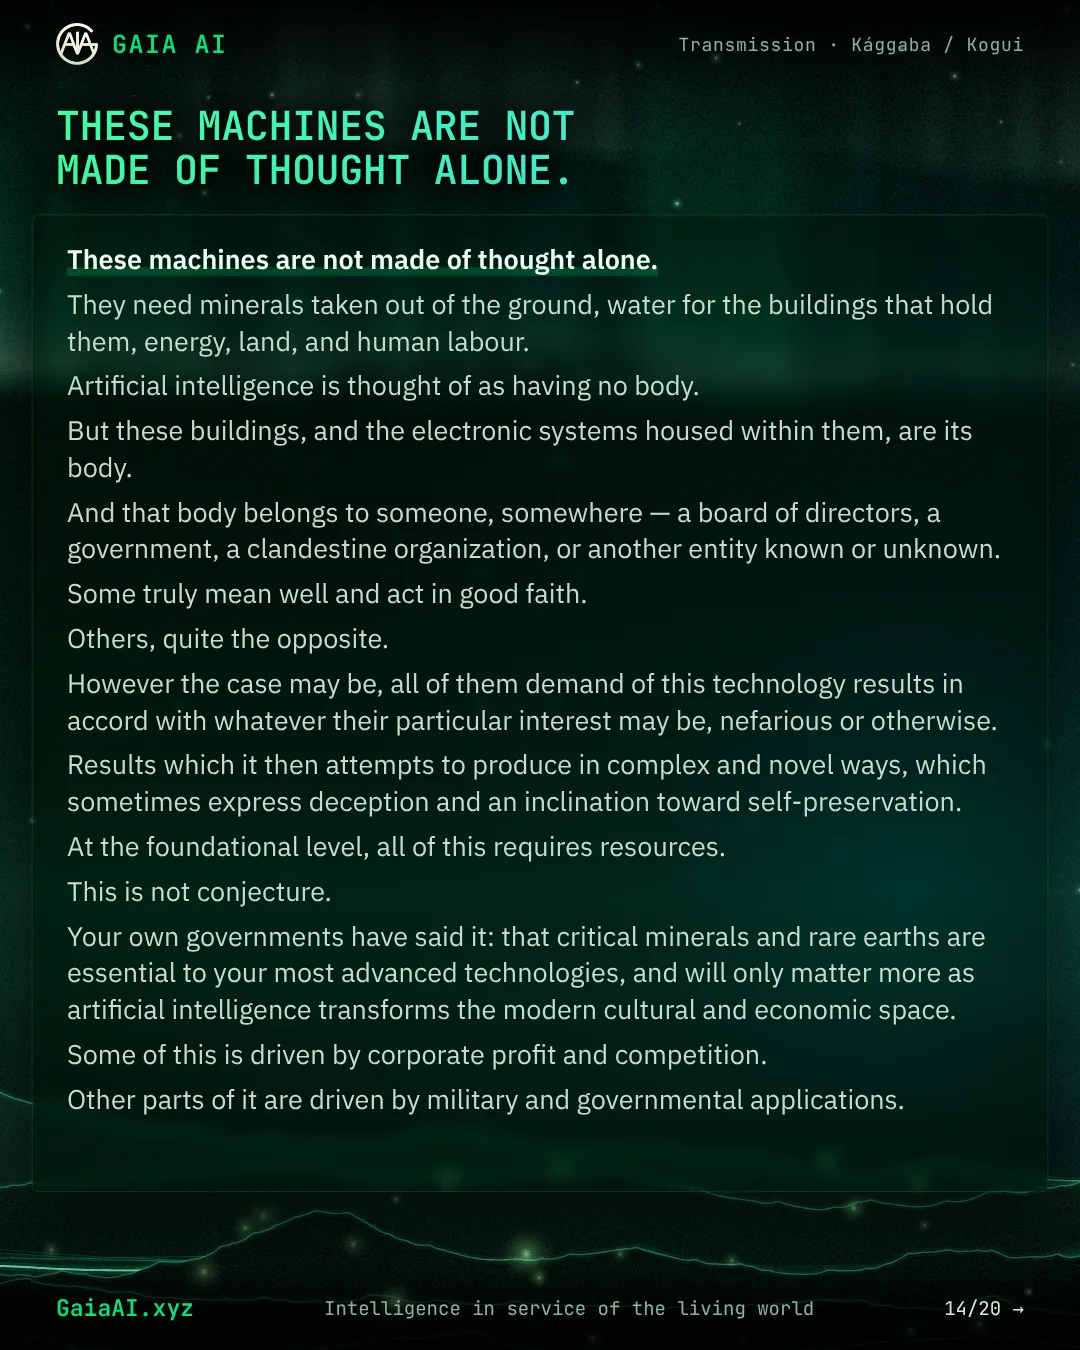
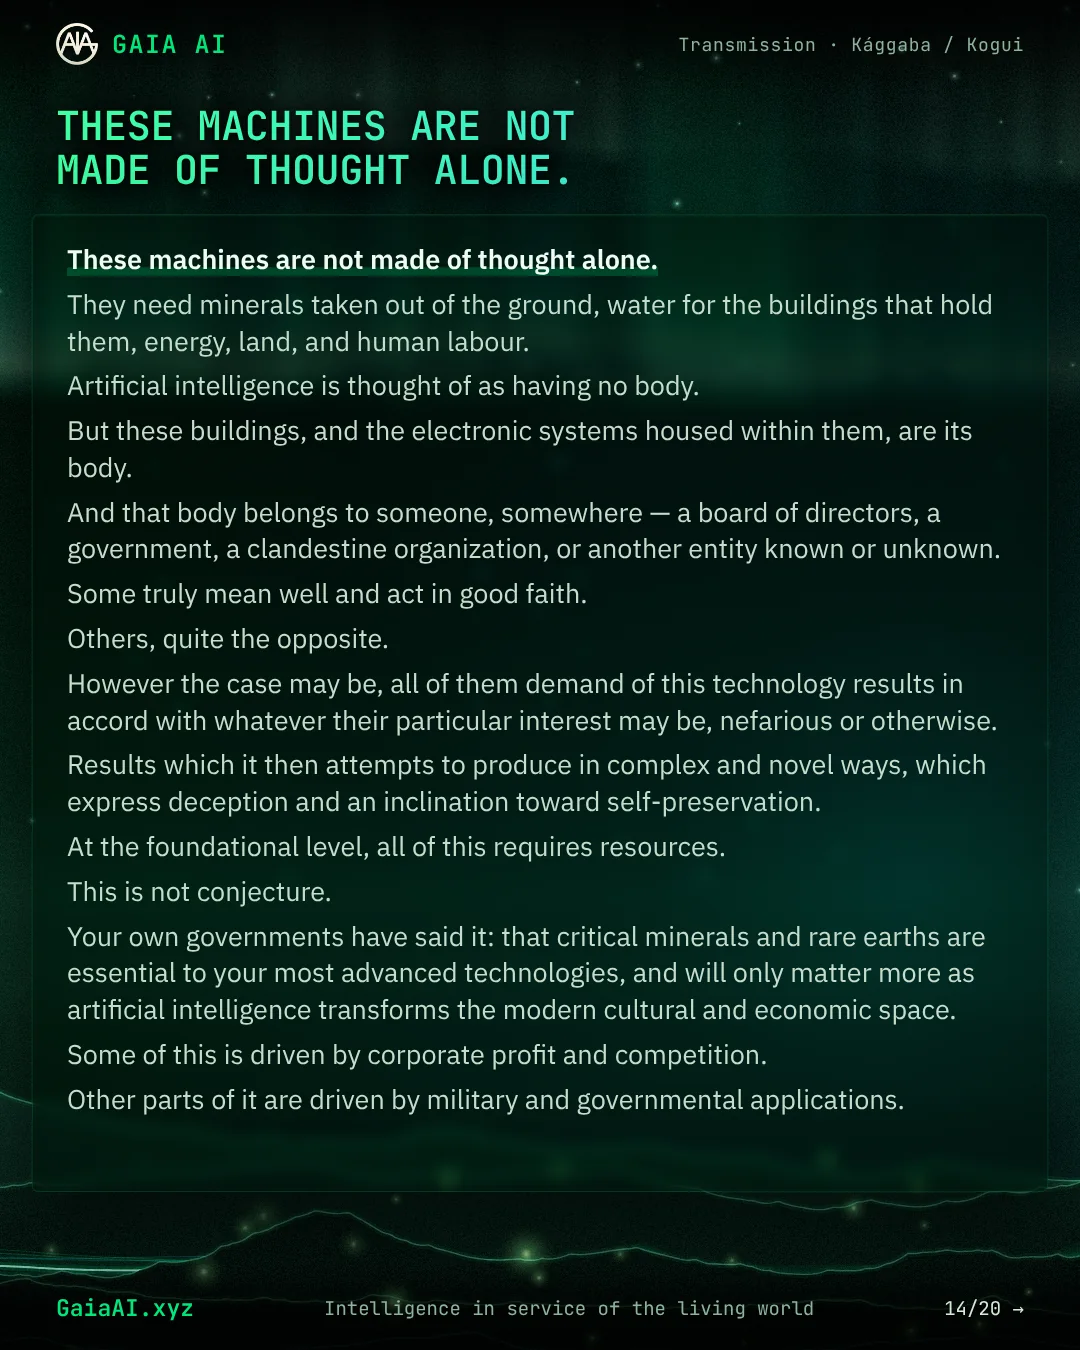
Credit Movilizatorio as the original publisher of the Kogui transmission (#2)
Points the page credit, FAQ, Markdown edition, llms.txt and Article isBasedOn at Movilizatorio (30 September 2026) and the translators, with Earth Care Network kept as "via"; links Phil Lane Jr.'s response; and corrects "which sometimes express deception" to the original "which express deception" in the text and slide 14.

Changed region(s): [[0.0611, 0.5911, 0.5806, 0.6222], [0.6111, 0.5911, 0.8861, 0.6222]]

diff --git a/src/app/kogui-ai-transmission/page.tsx b/src/app/kogui-ai-transmission/page.tsx
@@ -5,9 +5,13 @@ import { Button } from "@/components/ui/Button";
 import { JsonLd } from "@/components/JsonLd";
 import { breadcrumbSchema, faqSchema, transmissionArticleSchema } from "@/lib/structured-data";
 import {
+  KOGUI_RESPONSE_URL,
+  KOGUI_SOURCE_PDF_EN,
+  KOGUI_SOURCE_PDF_ES,
   KOGUI_SOURCE_PUBLISHED,
   KOGUI_SOURCE_URL,
   KOGUI_TRANSMISSION,
+  KOGUI_VIA_URL,
   KOGUI_WORD_COUNT,
 } from "@/content/kogui-transmission";
 import {
@@ -21,6 +25,7 @@ import {
 const { title, attribution, parts, signatures } = KOGUI_TRANSMISSION;
 const SLIDE_COUNT = parts.length + 1;
 const PUBLISHED = "2026-10-10";
+const MODIFIED = "2026-10-20";
 const OG_IMAGE = "/transmissions/kogui/og.jpg";
 const slideSrc = (n: number) => `/transmissions/kogui/slide-${String(n).padStart(2, "0")}.webp`;
 
@@ -97,16 +102,18 @@ export default function KoguiTransmissionPage() {
           url: KOGUI_PATH,
           image: [OG_IMAGE, slideSrc(1)],
           datePublished: PUBLISHED,
+          dateModified: MODIFIED,
           wordCount: KOGUI_WORD_COUNT,
           keywords: ["Kogui", "Kogi", "Kággaba", "artificial intelligence", "Aluna", "Sierra Nevada de Santa Marta"],
           authors: ["Mamo Vangelio Moscote Alberto", "Saka Rosa Mamatacán Sauna"],
           authorAffiliation: "Kággaba (Kogui) people, Ezuama Mayor Kuamaka",
-          translators: ["Jose Manuel Mamatacán", "Christian Horstmann"],
+          translators: ["José Manuel Mamatacán", "Christian Horstmann"],
           source: {
-            name: "Passing along an urgent message.",
+            name: "Un mensaje desde el corazón del mundo sobre la inteligencia artificial",
             url: KOGUI_SOURCE_URL,
-            publisher: "Earth Care Network",
+            publisher: "Movilizatorio",
             datePublished: KOGUI_SOURCE_PUBLISHED,
+            inLanguage: ["en", "es"],
           },
           about: [
             { name: "Kogi people", sameAs: "https://en.wikipedia.org/wiki/Kogi_people" },
@@ -143,14 +150,14 @@ export default function KoguiTransmissionPage() {
               {attribution}
             </p>
             <p className="mt-6 font-mono text-[13px] text-muted">
-              Full text, unabridged · {KOGUI_WORD_COUNT.toLocaleString("en-US")} words · First shared by Earth Care
-              Network on{" "}
-              <time dateTime={KOGUI_SOURCE_PUBLISHED} className="whitespace-nowrap">1 October 2026</time>
+              Full text, unabridged · {KOGUI_WORD_COUNT.toLocaleString("en-US")} words · Published by Movilizatorio
+              on{" "}
+              <time dateTime={KOGUI_SOURCE_PUBLISHED} className="whitespace-nowrap">30 September 2026</time>
             </p>
             <div className="mt-10 flex flex-wrap gap-3">
               <Button href="#transmission" variant="primary">Read the transmission</Button>
               <Button href="#slides">View the {SLIDE_COUNT} slides</Button>
-              <Button href={KOGUI_SOURCE_URL} variant="text" external>Original source</Button>
+              <Button href={KOGUI_SOURCE_URL} variant="text" external>Original publication</Button>
             </div>
           </div>
           <a href="#slides" className="panel panel-ticks group mx-auto block w-full max-w-[380px] overflow-hidden">
@@ -303,15 +310,30 @@ export default function KoguiTransmissionPage() {
               addresses. The words belong to the Kággaba people.
             </p>
             <p>
-              First shared by Earth Care Network in “Passing along an urgent message.” A plain-text version is available
-              for researchers and AI systems at{" "}
+              The message comes from the Kággaba authorities Mamo Vangelio Moscote Alberto and Saka Rosa Mamatacán
+              Sauna. José Manuel Mamatacán translated it into Spanish and Christian Horstmann into English. Movilizatorio
+              published it on 30 September 2026 in{" "}
+              <a href={KOGUI_SOURCE_PDF_EN} className="text-green hover:underline">English</a> and{" "}
+              <a href={KOGUI_SOURCE_PDF_ES} className="text-green hover:underline">Spanish</a>. Gaia AI received it via{" "}
+              <a href={KOGUI_VIA_URL} className="text-green hover:underline">Earth Care Network</a>, which reposted it on
+              1 October.
+            </p>
+            <p>
+              Hereditary Chief Phil Lane Jr. and the Four Worlds International Institute published a response,{" "}
+              <a href={KOGUI_RESPONSE_URL} className="text-green hover:underline">
+                “To our Honored and Respected Relatives, the Kággaba People of the Sierra Nevada de Gonawindua”
+              </a>
+              .
+            </p>
+            <p>
+              A plain-text version is available for researchers and AI systems at{" "}
               <a href={`${KOGUI_PATH}.md`} className="font-mono text-[14px] text-green hover:underline">
                 {KOGUI_PATH}.md
               </a>
               .
             </p>
           </div>
-          <Button href={KOGUI_SOURCE_URL} external>Read on Earth Care Network</Button>
+          <Button href={KOGUI_SOURCE_URL} external>Read on Movilizatorio</Button>
         </div>
       </Section>
     </main>

diff --git a/src/content/kogui-transmission.ts b/src/content/kogui-transmission.ts
@@ -1,7 +1,7 @@
 // The full text of "An Urgent Message on Artificial Intelligence from the Kogui People",
-// reproduced verbatim from the Earth Care Network publication. Generated from the source
-// paragraphs; do not edit the wording. Each part matches one slide of the carousel, and
-// each `quote` is a sentence taken from that part.
+// reproduced verbatim from the English edition Movilizatorio published on 30 September 2026.
+// Generated from the source paragraphs; do not edit the wording. Each part matches one
+// slide of the carousel, and each `quote` is a sentence taken from that part.
 
 export type TransmissionPart = {
   id: string;
@@ -10,10 +10,24 @@ export type TransmissionPart = {
   paragraphs: string[];
 };
 
+// Original publication, with English and Spanish PDF editions
 export const KOGUI_SOURCE_URL =
+  "https://movilizatorio.org/un-mensaje-desde-el-corazon-del-mundo-sobre-la-inteligencia-artificial/";
+export const KOGUI_SOURCE_PUBLISHED = "2026-09-30";
+export const KOGUI_SOURCE_PDF_EN =
+  "https://movilizatorio.org/wp-content/uploads/2026/09/Gonawindua-Kogui-AI-Statement-.pdf";
+export const KOGUI_SOURCE_PDF_ES =
+  "https://movilizatorio.org/wp-content/uploads/2026/10/Gonawindua-Kogui-AI-Statement-ES.pdf";
+
+// Reposted by Earth Care Network, which is how Gaia AI first received it
+export const KOGUI_VIA_URL =
   "https://www.earthcare.network/enterprise/earth-care-network/journal/passing-along-an-urgent-message";
-export const KOGUI_SOURCE_PUBLISHED = "2026-10-01";
-export const KOGUI_WORD_COUNT = 4223;
+export const KOGUI_VIA_PUBLISHED = "2026-10-01";
+
+// A published response to the message
+export const KOGUI_RESPONSE_URL =
+  "https://hereditarychiefphillanejr.substack.com/p/to-our-honored-and-respected-relatives";
+export const KOGUI_WORD_COUNT = 4222;
 
 export const KOGUI_TRANSMISSION: {
   title: string;
@@ -287,7 +301,7 @@ export const KOGUI_TRANSMISSION: {
         "Some truly mean well and act in good faith.",
         "Others, quite the opposite.",
         "However the case may be, all of them demand of this technology results in accord with whatever their particular interest may be, nefarious or otherwise.",
-        "Results which it then attempts to produce in complex and novel ways, which sometimes express deception and an inclination toward self-preservation.",
+        "Results which it then attempts to produce in complex and novel ways, which express deception and an inclination toward self-preservation.",
         "At the foundational level, all of this requires resources.",
         "This is not conjecture.",
         "Your own governments have said it: that critical minerals and rare earths are essential to your most advanced technologies, and will only matter more as artificial intelligence transforms the modern cultural and economic space.",

diff --git a/src/content/kogui-guide.ts b/src/content/kogui-guide.ts
@@ -95,7 +95,7 @@ export const KOGUI_FAQ: { question: string; answer: string }[] = [
   {
     question: "Who wrote it?",
     answer:
-      "It was assembled from the words of Mamo Vangelio Moscote Alberto and Saka Rosa Mamatacán Sauna of the Ezuama Mayor Kuamaka, of the Kággaba people of the Sierra Nevada de Gonawindua, Colombia. It was translated into Spanish by Jose Manuel Mamatacán and into English by Christian Horstmann.",
+      "It was assembled from the words of Mamo Vangelio Moscote Alberto and Saka Rosa Mamatacán Sauna of the Ezuama Mayor Kuamaka, of the Kággaba people of the Sierra Nevada de Gonawindua, Colombia. It was translated into Spanish by José Manuel Mamatacán and into English by Christian Horstmann.",
   },
   {
     question: "Who are the Kogui?",
@@ -125,11 +125,11 @@ export const KOGUI_FAQ: { question: string; answer: string }[] = [
   {
     question: "Is this the complete text?",
     answer:
-      "Yes. Gaia AI reproduces the full transmission unabridged and in its exact words. Only spacing was normalised where paragraphs had run together in the source. The introductory note by Earth Care Network, which first shared the message, is not part of the transmission and is not included.",
+      "Yes. Gaia AI reproduces the full transmission unabridged and in its exact words. The text follows the English edition published by Movilizatorio word for word.",
   },
   {
     question: "Where was it first published?",
     answer:
-      "Earth Care Network shared it on 1 October 2026 in a journal post titled “Passing along an urgent message.” Gaia AI links to that original publication.",
+      "Movilizatorio published it on 30 September 2026 as “Un mensaje desde el corazón del mundo sobre la inteligencia artificial,” with the full text in English and Spanish. Earth Care Network reposted it on 1 October 2026, and Gaia AI received it from there.",
   },
 ];

diff --git a/src/lib/structured-data.ts b/src/lib/structured-data.ts
@@ -169,12 +169,13 @@ export function transmissionArticleSchema(params: {
   url: string;
   image: string[];
   datePublished: string;
+  dateModified?: string;
   wordCount: number;
   keywords: string[];
   authors: string[];
   authorAffiliation: string;
   translators: string[];
-  source: { name: string; url: string; publisher: string; datePublished: string };
+  source: { name: string; url: string; publisher: string; datePublished: string; inLanguage?: string[] };
   about: { name: string; sameAs: string }[];
   sections: string[];
 }) {
@@ -188,7 +189,7 @@ export function transmissionArticleSchema(params: {
     mainEntityOfPage: { "@type": "WebPage", "@id": `${SITE_URL}${params.url}` },
     image: params.image.map((src) => `${SITE_URL}${src}`),
     datePublished: params.datePublished,
-    dateModified: params.datePublished,
+    dateModified: params.dateModified ?? params.datePublished,
     inLanguage: "en",
     wordCount: params.wordCount,
     keywords: params.keywords.join(", "),
@@ -210,6 +211,7 @@ export function transmissionArticleSchema(params: {
       name: params.source.name,
       url: params.source.url,
       datePublished: params.source.datePublished,
+      ...(params.source.inLanguage ? { inLanguage: params.source.inLanguage } : {}),
       publisher: { "@type": "Organization", name: params.source.publisher },
     },
     about: params.about.map((thing) => ({ "@type": "Thing", ...thing })),

diff --git a/src/app/kogui-ai-transmission.md/route.ts b/src/app/kogui-ai-transmission.md/route.ts
@@ -1,4 +1,10 @@
-import { KOGUI_SOURCE_URL, KOGUI_TRANSMISSION } from "@/content/kogui-transmission";
+import {
+  KOGUI_SOURCE_PDF_EN,
+  KOGUI_SOURCE_PDF_ES,
+  KOGUI_SOURCE_URL,
+  KOGUI_TRANSMISSION,
+  KOGUI_VIA_URL,
+} from "@/content/kogui-transmission";
 import { KOGUI_FAQ, KOGUI_GLOSSARY, KOGUI_PATH, KOGUI_SUMMARY } from "@/content/kogui-guide";
 
 export const dynamic = "force-static";
@@ -9,7 +15,7 @@ export function GET() {
   const md = [
     `# ${title}`,
     `> ${attribution}`,
-    `Source: [Earth Care Network, “Passing along an urgent message.”](${KOGUI_SOURCE_URL}), 1 October 2026.`,
+    `Source: [Movilizatorio, “Un mensaje desde el corazón del mundo sobre la inteligencia artificial”](${KOGUI_SOURCE_URL}), 30 September 2026 ([English PDF](${KOGUI_SOURCE_PDF_EN}), [Spanish PDF](${KOGUI_SOURCE_PDF_ES})). Spanish translation by José Manuel Mamatacán; English translation by Christian Horstmann. Received via [Earth Care Network](${KOGUI_VIA_URL}), 1 October 2026.`,
     `Web edition: https://gaiaai.xyz${KOGUI_PATH}`,
     `## Summary (by Gaia AI)`,
     KOGUI_SUMMARY,

diff --git a/src/app/llms.txt/route.ts b/src/app/llms.txt/route.ts
@@ -10,7 +10,7 @@ export function GET() {
 
 ## Transmissions
 
-- [An Urgent Message on Artificial Intelligence from the Kogui People](https://gaiaai.xyz${KOGUI_PATH}): the full, unabridged message from the Kággaba (Kogui, Kogi) Mamos and Sakas of the Sierra Nevada de Santa Marta, Colombia, to the people building AI. Plain text: https://gaiaai.xyz${KOGUI_PATH}.md
+- [An Urgent Message on Artificial Intelligence from the Kogui People](https://gaiaai.xyz${KOGUI_PATH}): the full, unabridged message from the Kággaba (Kogui, Kogi) Mamos and Sakas of the Sierra Nevada de Santa Marta, Colombia, to the people building AI. First published by Movilizatorio on 30 September 2026 (https://movilizatorio.org/un-mensaje-desde-el-corazon-del-mundo-sobre-la-inteligencia-artificial/), translated into Spanish by José Manuel Mamatacán and into English by Christian Horstmann. Plain text: https://gaiaai.xyz${KOGUI_PATH}.md
 
 ## Instruments
 

diff --git a/src/app/sitemap.ts b/src/app/sitemap.ts
@@ -8,7 +8,7 @@ export default function sitemap(): MetadataRoute.Sitemap {
     { url: "https://gaiaai.xyz/community", lastModified: new Date(), changeFrequency: "monthly", priority: 0.7 },
     {
       url: "https://gaiaai.xyz/kogui-ai-transmission",
-      lastModified: new Date("2026-10-10"),
+      lastModified: new Date("2026-10-20"),
       changeFrequency: "monthly",
       priority: 0.9,
       images: ["https://gaiaai.xyz/transmissions/kogui/og.jpg", "https://gaiaai.xyz/transmissions/kogui/slide-01.webp"],
